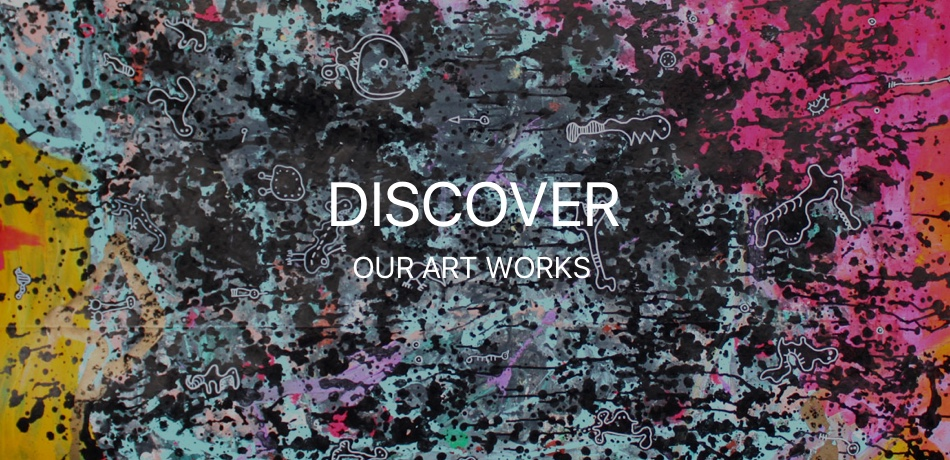
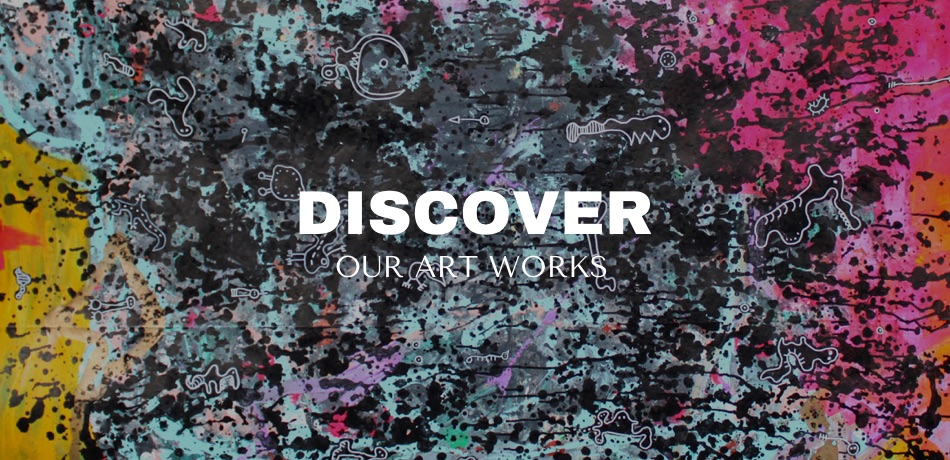
Working on responsivness

Changed region(s): [[0.3053, 0.3957, 0.7021, 0.5174], [0.3358, 0.5478, 0.6411, 0.6087]]

diff --git a/app/components/Footer/index.js b/app/components/Footer/index.js
@@ -41,6 +41,13 @@ function Footer() {
   `;
 
   const Copyright = styled.p`
+  
+    span {
+      font-size: 0;
+      display: block;
+      margin-top: 5px;
+    }
+    
     margin: 0;
     font-family: 'WorkSans', sans-serif;
     font-size: 14px;
@@ -48,6 +55,14 @@ function Footer() {
     text-transform: uppercase;
     letter-spacing: 0.5px;
     color: #ac7e49;
+    
+    ${media.tablet`
+      span {
+        display: inline;
+        margin: 0;
+        font-size: 14px;
+      }
+    `}
   `;
 
   return (
@@ -60,7 +75,7 @@ function Footer() {
       <Wrapper>
         <Inner>
           <LinkList />
-          <Copyright>The Swatch Art Peace Hotel | © 2017 The Swatch Group Ltd</Copyright>
+          <Copyright>The Swatch Art Peace Hotel <span>|</span> © 2017 The Swatch Group Ltd</Copyright>
         </Inner>
       </Wrapper>
     </FooterWrapper>

diff --git a/app/components/Features/index.js b/app/components/Features/index.js
@@ -12,6 +12,7 @@ import H2 from './H2';
 import P from './P';
 import ScrollToWrapper from './ScrollToWrapper';
 import ScrollTo from '../ScrollTo';
+import config from '../../config';
 
 function Features({ features }) {
   const settings = {
@@ -20,6 +21,17 @@ function Features({ features }) {
     slidesToShow: 1,
     slidesToScroll: 1,
     dots: true,
+    responsive: [
+      {
+        breakpoint: config.breakpointBoundaries.phoneUpperBoundary,
+        settings: {
+          slidesToShow: 1,
+          slidesToScroll: 1,
+          arrows: false,
+          dots: true,
+        },
+      },
+    ],
   };
 
   const slides = features.map((feature, i) => (
@@ -32,7 +44,7 @@ function Features({ features }) {
   ));
 
   return (
-    <Wrapper>
+    <Wrapper isMobile>
       <Slider {...settings}>
         { slides }
       </Slider>

diff --git a/app/components/NavigationTrigger/Button.js b/app/components/NavigationTrigger/Button.js
@@ -1,4 +1,5 @@
 import styled from 'styled-components';
+import { media } from '../../style-utils';
 
 const Button = styled.button`
   position: absolute;
@@ -8,11 +9,12 @@ const Button = styled.button`
   display: flex;
   padding: 0;
   font-family: 'WorkSans', sans-serif;
-  font-size: 14px;
+  font-size: 0;
   font-weight: 600;
   text-transform: uppercase;
   line-height: 40px;
   outline: none;
+  cursor: pointer;
   
   i {
     display: flex;
@@ -20,8 +22,14 @@ const Button = styled.button`
     justify-content: center;
     width: 40px;
     height: 40px;
-    margin-right: 12px;
+    
   }
+  
+  ${media.tabletLandscape`
+    font-size: 14px;
+  
+    i { margin-right: 12px; }
+  `}
 `;
 
 export default Button;

diff --git a/app/components/Logo/index.js b/app/components/Logo/index.js
@@ -6,13 +6,27 @@
 
 import React from 'react';
 import { Link } from 'react-router';
+import styled from 'styled-components';
+import { media } from '../../style-utils';
 import logoImage from '../../img/logo.svg';
 
-const Logo = () => (
-  <Link to="/">
-    <img src={logoImage} alt={'The Swatch Art Peace Hotel'} />
-  </Link>
-);
+const Logo = () => {
+  const Wrapper = styled(Link)`
+    display: inline-block;
+    max-width: 180px;
+    font-size: 0;
+    
+    ${media.tablet`
+      max-width: none;
+    `}
+  `;
+
+  return (
+    <Wrapper to="/">
+      <img src={logoImage} alt={'The Swatch Art Peace Hotel'} />
+    </Wrapper>
+  );
+};
 
 export default Logo;
 

diff --git a/app/components/Footer/LinkList.js b/app/components/Footer/LinkList.js
@@ -13,7 +13,7 @@ function Footer() {
   const Ul = styled.ul`
     list-style: none;
     padding: 0;
-    margin: 0 0 15px;
+    margin: 0 0 25px;
     font-size: 0;
     
     ${media.desktop`
@@ -22,11 +22,15 @@ function Footer() {
   `;
 
   const ListItem = styled.li`
-    display: inline-block;
+     display: block;
+     
+     & + & { margin-top: 10px; }
   
-    & + & {
-      margin-left: 25px;
-    }
+     ${media.tablet`
+       display: inline-block;
+     
+       & + & { margin-left: 25px; }
+    `}
   `;
 
   const FooterLink = styled(Link)`

diff --git a/app/components/Header/Wrapper.js b/app/components/Header/Wrapper.js
@@ -1,15 +1,23 @@
 import styled from 'styled-components';
+import { media } from '../../style-utils';
 
 const Wrapper = styled.header`
   position: fixed;
   top: 0;
   left: 0;
-  padding: 18px 130px 14px;
+  display: flex;
+  align-items: center;
+  justify-content: center;
+  padding: 18px 90px 14px;
   z-index: 9000;
   height: 80px;
   width: 100%;
   background: white;
-  text-align: center;
+  
+  ${media.tabletLandscape`
+    padding-left: 130px;
+    padding-right: 130px;
+  `}
 `;
 
 export default Wrapper;

diff --git a/app/components/Features/H2.js b/app/components/Features/H2.js
@@ -1,12 +1,17 @@
 import styled from 'styled-components';
+import { media } from '../../style-utils';
 
-const Wrapper = styled.h2`
+const H2 = styled.h2`
   margin: 0;
   font-family: 'ArchivoBlack';
-  font-weight: 900;
-  font-size: 62px;
+  font-size: 38px;
+  font-weight: 400;
   text-transform: uppercase;
   color: white;
+  
+  ${media.tablet`
+    font-size: 62px;
+  `}
 `;
 
-export default Wrapper;
+export default H2;

diff --git a/app/components/Features/P.js b/app/components/Features/P.js
@@ -1,11 +1,16 @@
 import styled from 'styled-components';
+import { media } from '../../style-utils';
 
 const Wrapper = styled.p`
   margin: 0;
   font-family: 'TenorSans', sans-serif;
-  font-size: 30px;
+  font-size: 20px;
   text-transform: uppercase;
   color: white;
+  
+  ${media.tablet`
+    font-size: 30px;
+  `}
 `;
 
 export default Wrapper;

diff --git a/app/components/Features/Slide.js b/app/components/Features/Slide.js
@@ -4,7 +4,7 @@ const Article = styled.article`
   position: relative;
   display: table;
   width: 100%;
-  height: 90vh;
+  height: calc(100vh - 80px);
   overflow: hidden;
   
   background-size: cover;

diff --git a/app/components/SearchTrigger/Button.js b/app/components/SearchTrigger/Button.js
@@ -5,6 +5,7 @@ const Button = styled.div`
   top: 22px;
   right: 20px;
   padding: 0;
+  cursor: pointer;
   
   i {
     display: flex;
